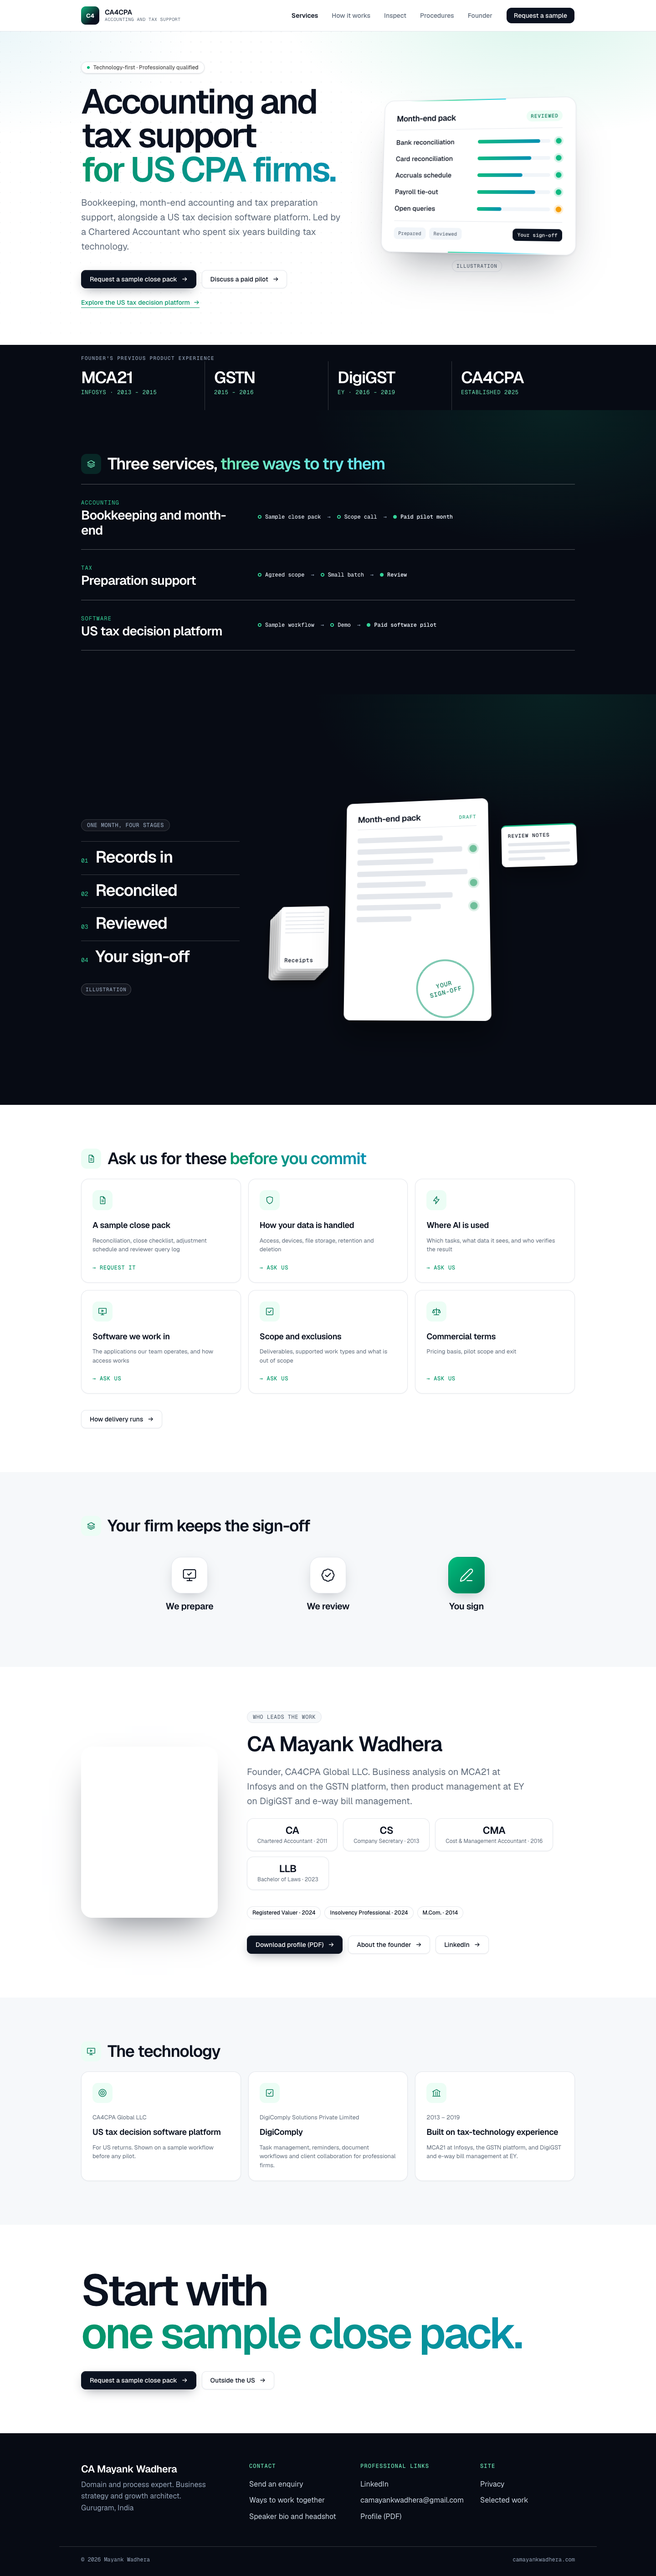
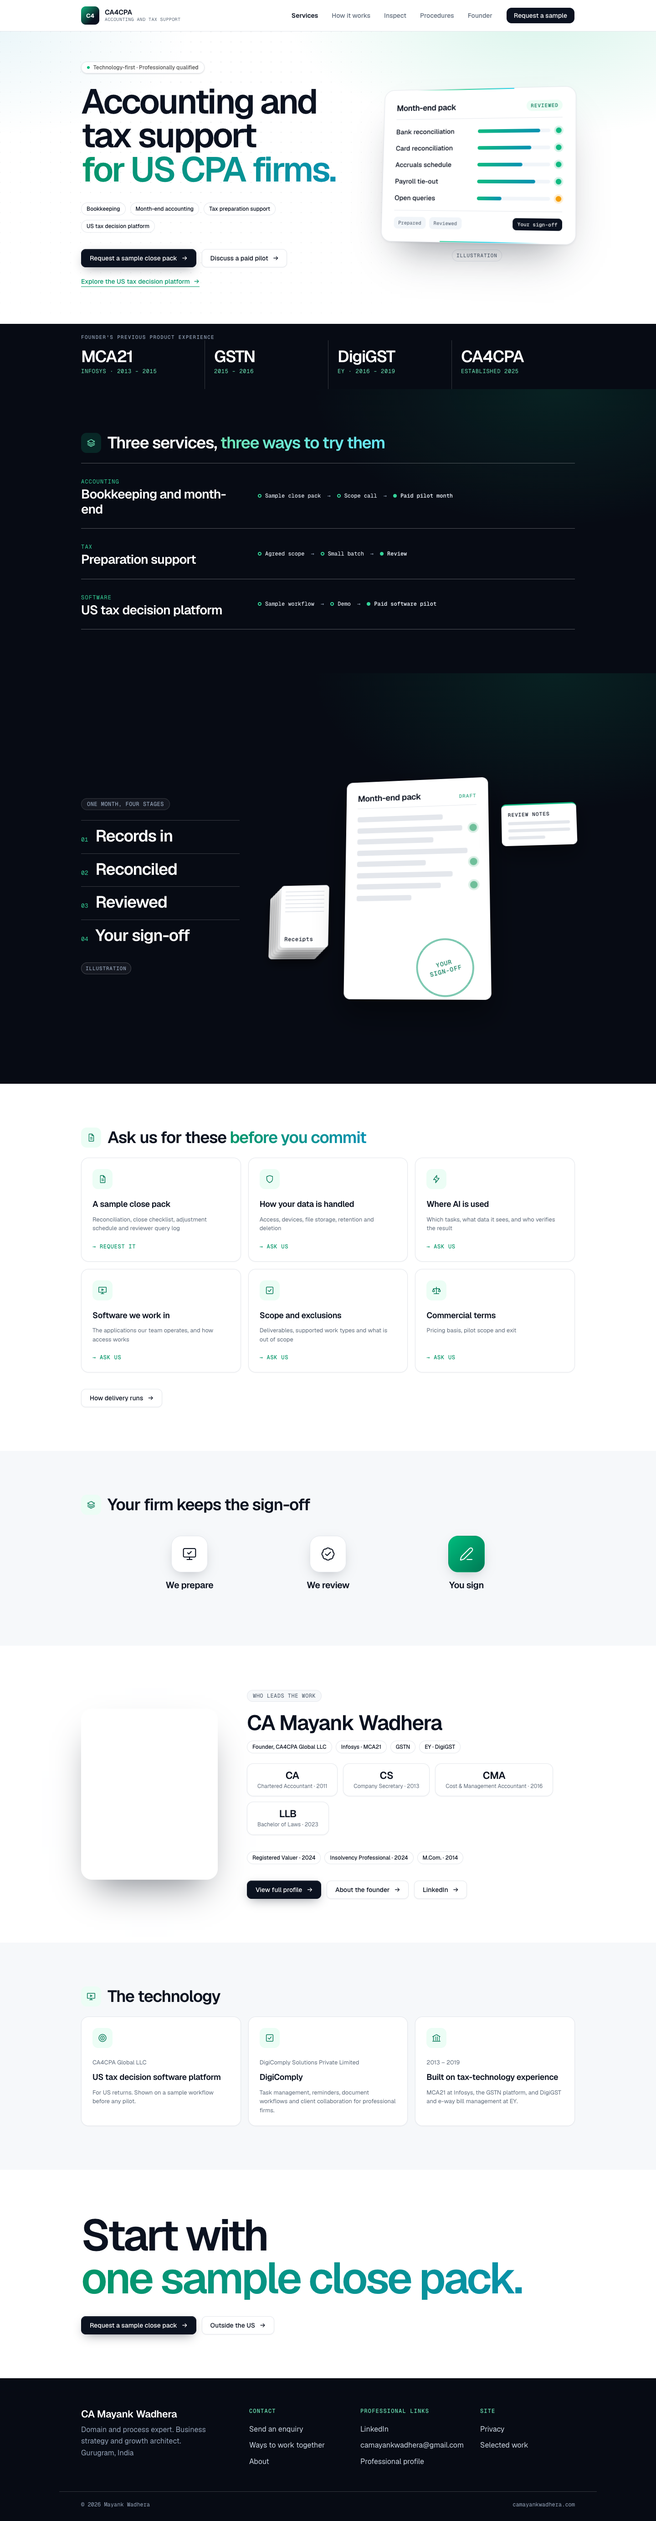
Show the profile on the site instead of offering downloads
- New /profile page with the full professional profile
- Remove the profile PDF and photo download links; PDF no longer public
- Replace bio paragraphs with tags and at-a-glance blocks site-wide
- Refresh screenshots, add profile screenshot

diff --git a/src/styles/global.css b/src/styles/global.css
@@ -835,4 +835,35 @@
   .founder img { width: 100%; aspect-ratio: 4 / 5; object-fit: cover; object-position: 50% 12%; border-radius: 24px; box-shadow: 0 40px 80px -30px rgba(11, 18, 32, .55); }
   .founder .tags { margin-top: 4px; }
   @media (max-width: 820px) { .scene-split, .founder { grid-template-columns: 1fr; } .scene3d { justify-self: center; max-width: 320px; } .founder img { max-width: 280px; } }
+
+  /* on-site professional profile */
+  .profile-cover { background: radial-gradient(900px 500px at 85% 0%, rgba(16, 185, 129, .2), transparent 60%), var(--green-deep); color: #fff; overflow: hidden; }
+  .profile-cover-grid { display: grid; grid-template-columns: minmax(0, 1.2fr) minmax(0, .8fr); gap: clamp(24px, 5vw, 64px); align-items: end; padding-top: clamp(48px, 7vw, 96px); }
+  .profile-cover-grid > div { padding-bottom: clamp(40px, 6vw, 80px); }
+  .profile-cover .eyebrow { border-color: rgba(255, 255, 255, .14); background: rgba(255, 255, 255, .05); color: #6ee7b7; }
+  .profile-cover h1 em { color: transparent; background-image: linear-gradient(92deg, #6ee7b7, #67e8f9); }
+  .profile-cover img { width: 100%; max-width: 420px; justify-self: end; aspect-ratio: 4 / 5; object-fit: cover; object-position: 50% 12%; border-radius: 24px 24px 0 0; display: block; }
+  .profile-tagline { margin-top: 24px; font-size: clamp(19px, 2vw, 26px); line-height: 1.35; color: #cbd5e1; letter-spacing: -.01em; }
+  .profile-place { margin-top: 28px; font: 400 12px var(--mono); letter-spacing: .12em; text-transform: uppercase; color: #94a3b8; }
+  .profile-body { max-width: 900px; }
+  .profile-lead { font-size: clamp(20px, 2.1vw, 27px); line-height: 1.45; letter-spacing: -.015em; color: var(--ink); margin-bottom: 18px; }
+  .profile-body h2 { margin-bottom: 28px; }
+  .xp { border-top: 1px solid var(--rule); }
+  .xp-row { display: grid; grid-template-columns: 160px minmax(0, 1fr); gap: 12px 32px; padding: 24px 0; border-bottom: 1px solid var(--rule); }
+  .xp-when { font: 500 13px var(--mono); color: var(--brand); padding-top: 4px; }
+  .xp-row p { margin: 8px 0 0; color: var(--ink-soft); }
+  .quals { display: grid; grid-template-columns: 1fr 1fr; gap: 0 40px; }
+  .qual { display: grid; grid-template-columns: 64px minmax(0, 1fr); padding: 14px 0; border-top: 1px solid var(--rule); font-size: 17px; }
+  .qual b { font: 500 13px var(--mono); color: var(--brand); padding-top: 4px; }
+  @media (max-width: 820px) {
+    .profile-cover-grid { grid-template-columns: 1fr; }
+    .profile-cover-grid > div { padding-bottom: 8px; }
+    .profile-cover img { justify-self: start; max-width: 300px; }
+    .xp-row { grid-template-columns: 1fr; gap: 6px; }
+    .quals { grid-template-columns: 1fr; }
+  }
+
+  .tile .tags .tag { white-space: normal; text-align: left; }
+  .section.dark .tile .tag, .section.dark .tags .tag { background: rgba(255, 255, 255, .06); border-color: rgba(255, 255, 255, .16); color: #e2e8f0; }
+  .xp-row .tags { margin-top: 10px; }
 }

diff --git a/README.md b/README.md
@@ -26,7 +26,7 @@ npm run build
 
 | Path | What it holds |
 |---|---|
-| `src/pages/` | One file per page (`index`, `about`, `ventures`, `work`, `insights`, `work-with-me`, `ca4cpa`, `sop`, `enquire`, `privacy`, `404`) |
+| `src/pages/` | One file per page (`index`, `about`, `ventures`, `work`, `insights`, `work-with-me`, `ca4cpa`, `sop`, `profile`, `enquire`, `privacy`, `404`) |
 | `src/layouts/Layout.astro` | Shared header, footer and page shell |
 | `src/components/kit/` | Sections built from Magic UI components |
 | `src/components/ui/` | shadcn/ui and Magic UI components |
@@ -39,9 +39,9 @@ The site is live at https://camayankwadhera.com on Hostinger shared hosting. To 
 
 `public/.htaccess` holds the redirects from the old WordPress addresses and the 404 page.
 
-## Profile PDF
+## Profile
 
-`public/Mayank-Wadhera-Professional-Profile.pdf` is generated from `profile-src/profile.html`. Edit that file and print it to PDF at A4 with backgrounds on to regenerate it.
+The professional profile is shown on the site at `/profile` (`src/pages/profile.astro`). It is not offered as a download. `profile-src/` holds a print layout of the same content, kept for making a PDF by hand if one is ever needed.
 
 ## Enquiries
 
